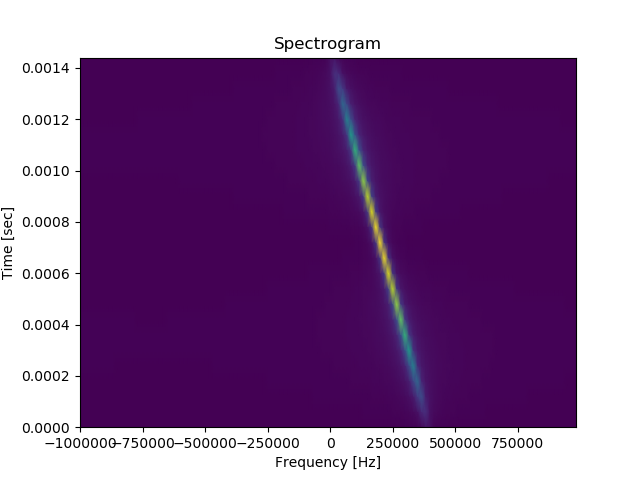
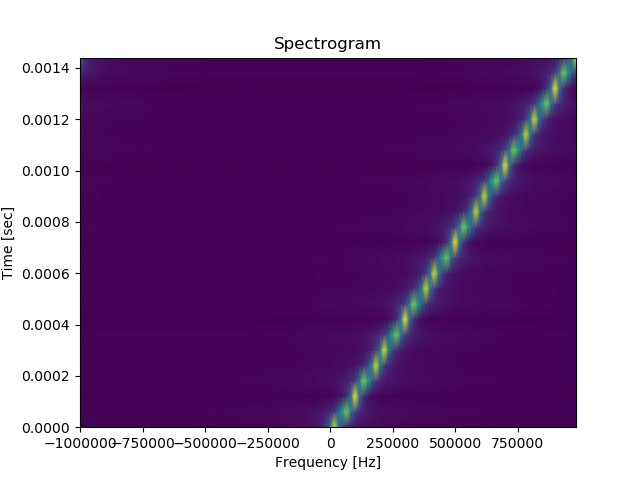
Galahad says it is broken

Changed region(s): [[0.5, 0.125, 0.9062, 0.9062], [0.125, 0.125, 0.1562, 0.1562]]

diff --git a/Target/Target.py b/Target/Target.py
@@ -38,8 +38,8 @@ def rx(num_samps):
     return samples
 
 
-def plot_spectrogram(samples, num_samps, samp_rate, center_freq):
-    binLen = 128
+def plot_spectrogram(samples, num_samps, samp_rate, center_freq, binLen = 128):
+    
     shaped = np.reshape(samples, (binLen, int(num_samps/binLen)) )
     ffts = np.abs(np.fft.fftshift(np.fft.fft(shaped, axis=1),axes=1))
 
@@ -55,13 +55,13 @@ def plot_spectrogram(samples, num_samps, samp_rate, center_freq):
     plt.show()
 
 
-
-num_samps = 2**11 #2**12 #4096 # number of samples received
+oversamp = 5
+num_samps = oversamp * (2**11) #2**12 #4096 # number of samples received
 center_freq = 1900e6 # Hz
-samp_rate = 2e6 # Hz
+samp_rate = oversamp * 2e6 # Hz
 gain = 31.5 # dB
 duration = num_samps/samp_rate # seconds
-buffer_size = 1024
+buffer_size = 1024 * oversamp
 
 usrp = uhd.usrp.MultiUSRP("serial=E4R22N4UP")
 usrp.set_rx_antenna("RX2")
@@ -70,6 +70,8 @@ usrp.set_tx_antenna("TX/RX")
 usrp.set_rx_rate(samp_rate, 0)
 usrp.set_rx_freq(uhd.libpyuhd.types.tune_request(center_freq), 0)
 usrp.set_rx_gain(gain, 0)
+usrp.set_rx_dc_offset(True)
+usrp.set_rx_bandwidth(samp_rate, 0)
 # Set up the stream and receive buffer
 st_args = uhd.usrp.StreamArgs("fc32", "sc16")
 st_args.channels = [0]
@@ -84,7 +86,7 @@ streamer.issue_stream_cmd(stream_cmd)
 signal.signal(signal.SIGINT, exit_gracefully)
 
 #pow = []
-signal_max_len = 8192
+signal_max_len = 8192 * oversamp
 signal_exists = 0
 sig_buffer = np.zeros((signal_max_len), dtype=np.complex64)
 
@@ -102,20 +104,13 @@ while(True):
             plt.clf()
             plt.plot(np.abs(sig_buffer[0:signal_exists]))
             plt.show()
-        signal_exists = 0
-        
-
-
-
-    #    print("Signal Detected")
-    #    plt.clf()
-    #    plt.plot(np.abs(recv_buffer[0]))
-    #    plt.show()
-    # pow.append(max(np.abs(recv_buffer[0])))
-    # #samples = rx(num_samps)
-    # #pow.append(10*np.log10(np.mean(np.abs(samples)**2)))
+            plot_spectrogram(sig_buffer[0:signal_exists], signal_exists, samp_rate, center_freq, binLen=32)
+        signal_exists = 0    
+    #pow.append(max(np.abs(recv_buffer[0])))
+    # samples = rx(num_samps)
+    # pow.append(10*np.log10(np.mean(np.abs(samples)**2)))
     # #plot_spectrogram(samples, num_samps, samp_rate, center_freq)
-    # if(len(pow) % 100 == 0):
+    # if(len(pow) % 500 == 0):
     #    plt.clf()
     #    plt.plot(pow)
     #    plt.show()

diff --git a/RadarSystem/Radar.py b/RadarSystem/Radar.py
@@ -10,9 +10,9 @@ import time
 samp_rate = 2e6  #hz
 prf = 100 #Hz
 duty_factor = 0.15 #.05
-β = 400e3; #Pulse Bandwidth
+β = 1e6 #400e3; #Pulse Bandwidth
 repetitions = 128
-fc = 1.9e9; #Hz
+fc = 1.900e9; #Hz
 
 tau = duty_factor * (1/prf) # Length of transmit time in seconds
 lam = (1/fc) * sc.speed_of_light
@@ -49,24 +49,33 @@ def single_pulse(samp_rate, prf, tau, β, target_pow = 0, envelope_type="Rectang
     
     
     
-t, p = single_pulse(samp_rate, prf, tau, β, pulse_type="Decreasing", envelope_type="HalfSin") #, envelope_type="HalfSin")            
+t, p = single_pulse(samp_rate, prf, tau, β, pulse_type="Increasing", envelope_type="Rectangular") #, envelope_type="HalfSin")            
     
     
 
 
 num_samps = len(p) # number of samples received
-gain = 31.5 # dB
+gain = 31# dB
 duration = num_samps/samp_rate # seconds
 
 usrp = uhd.usrp.MultiUSRP("serial=E2R22N0UP")
 usrp.set_rx_antenna("RX2")
 usrp.set_tx_antenna("TX/RX")
+usrp.set_tx_bandwidth(samp_rate, 0)
+
+# usrp.set_tx_rate(samp_rate)
+# usrp.set_tx_freq(uhd.libpyuhd.types.tune_request(fc),0)
+# usrp.set_tx_gain(gain,0)
+# usrp.set_tx_dc_offset(True, 0)
+
+# st_args = uhd.usrp.StreamArgs("fc32", "sc16")
+# st_args.channels = [0]
+# metadata = uhd.types.TXMetadata()
+# streamer = usrp.get_tx_stream(st_args)
+
+
 
 print(duration)
-
-# while(True):
-#     usrp.send_waveform(p, duration, fc, samp_rate, [0], gain)
-#     time.sleep(0.030)
 
 binLen = 25
 shaped = np.reshape(p, (binLen, int(len(p)/binLen) ))
@@ -92,6 +101,8 @@ plt.title("FFT of Pulse")
 plt.plot(np.abs(np.fft.fftshift(np.fft.fft(p[0:int(len(p))]))))
 plt.savefig("FFT.png")
 
-
+usrp.set_tx_dc_offset(True, 0)
+usrp.send_waveform(p, duration, fc, samp_rate, [0], gain)
+# streamer.send(p, metadata)
 
 
